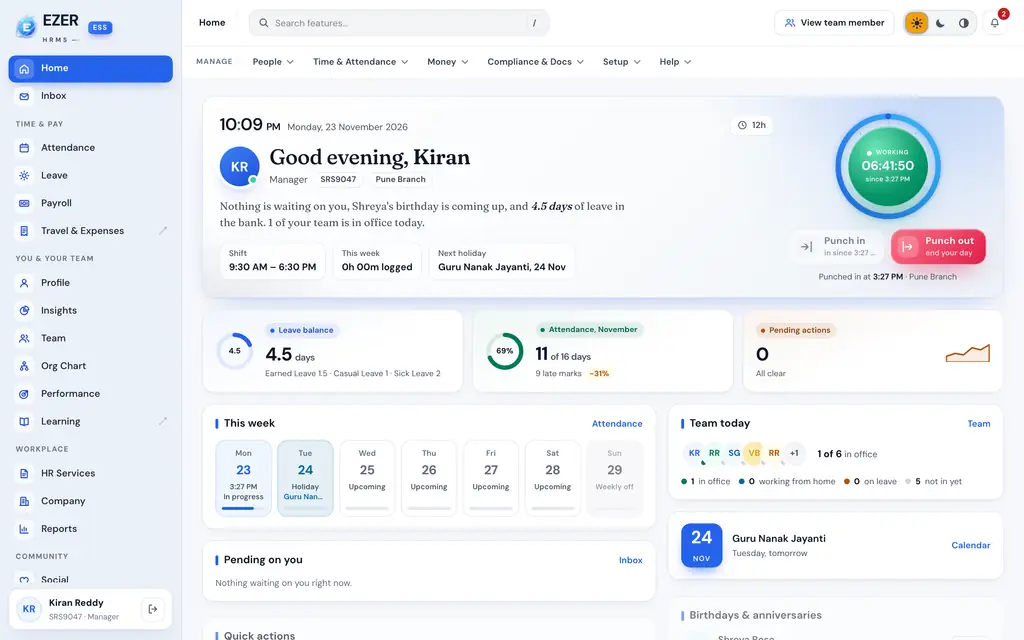
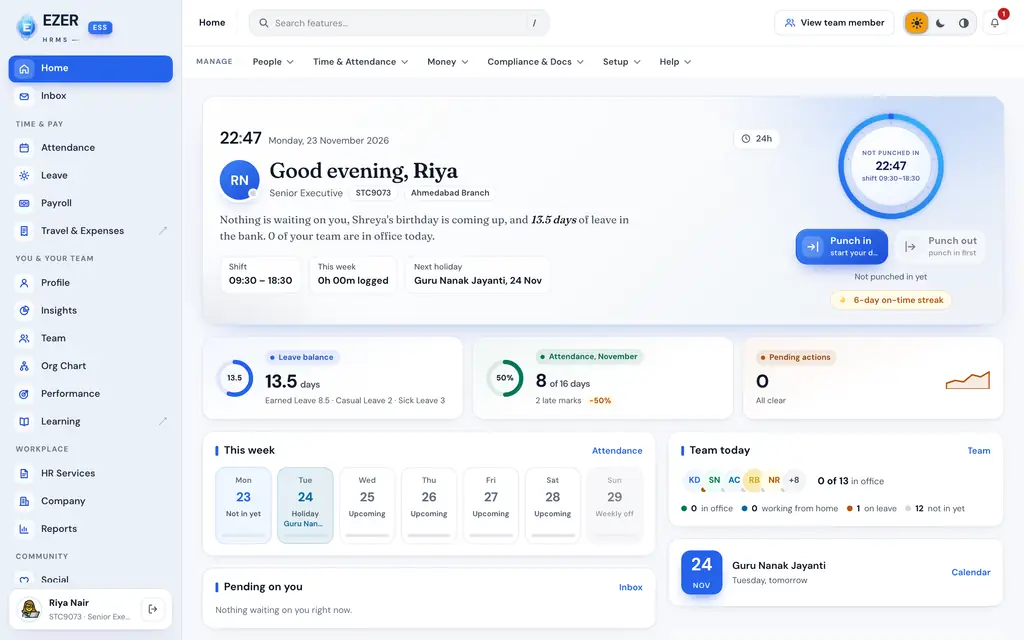
Show Hire & onboard from the recruiter's full ESS view
Re-recorded the flow as STC9073 (Riya Nair), whose recruitment screen has
all five stages: requisitions and the Raise MRF form, AI resume screening,
the candidate pipeline board, offers, pre-onboarding, then onboarding
compliance. Eleven steps; test records are renamed in the captures.

diff --git a/content/tour.ts b/content/tour.ts
@@ -628,13 +628,13 @@ export const demoFlows: DemoFlow[] = [
     "name": "Hire & onboard",
     "persona": "HR team",
     "icon": "briefcase",
-    "blurb": "Run from the HR team’s own login: requisitions, the pipeline, joiners and e-signed letters.",
+    "blurb": "From the HR team’s own login: requisition, AI screening, pipeline, offer and joining.",
     "host": "app.ezerhrms.com",
     "steps": [
       {
         "src": "/tour/hire-0.webp",
         "srcSm": "/tour/hire-0-sm.webp",
[2 lines of base64/hex data omitted]
         "title": "HR works from its own login",
         "body": "The HR team uses the same self-service as everyone else, with a Manage bar on top for the work their role allows.",
         "act": "click",
@@ -648,7 +648,7 @@ export const demoFlows: DemoFlow[] = [
       {
         "src": "/tour/hire-1.webp",
         "srcSm": "/tour/hire-1-sm.webp",
[2 lines of base64/hex data omitted]
         "title": "People work, one menu away",
         "body": "Recruitment, onboarding, letters, transfers and performance, shown only to the roles that hold them.",
         "act": "click",
@@ -662,12 +662,12 @@ export const demoFlows: DemoFlow[] = [
       {
         "src": "/tour/hire-2.webp",
         "srcSm": "/tour/hire-2-sm.webp",
[2 lines of base64/hex data omitted]
         "title": "Hiring at a glance",
-        "body": "Requisitions, open roles, the pipeline by stage and the most overdue item first, for the companies this person can see.",
+        "body": "Plan, source, offer, join and track. Open roles, the pipeline by stage and what is overdue, first thing.",
         "act": "click",
         "target": {
-          "x": 39.2,
+          "x": 29.15,
           "y": 22.67,
           "w": 1.76,
           "h": 1.53
@@ -676,74 +676,102 @@ export const demoFlows: DemoFlow[] = [
       {
         "src": "/tour/hire-3.webp",
         "srcSm": "/tour/hire-3-sm.webp",
[1 lines of base64/hex data omitted]
-        "title": "Requisitions with sign-off",
-        "body": "Quick hire or a full MRF with budget and approvers, flagged the day its target date passes.",
[1 lines of base64/hex data omitted]
+        "title": "Every requisition, accounted for",
+        "body": "Draft, approved, on hold or closed, with openings, filled roles and candidates on each.",
         "act": "click",
         "target": {
-          "x": 91.39,
-          "y": 22.67,
-          "w": 4.45,
-          "h": 1.53
+          "x": 93.35,
+          "y": 38.82,
+          "w": 8.57,
+          "h": 4.44
         }
       },
       {
         "src": "/tour/hire-4.webp",
         "srcSm": "/tour/hire-4-sm.webp",
[1 lines of base64/hex data omitted]
-        "title": "Is hiring keeping up?",
-        "body": "Fill rate, breached and at-risk requisitions and days to fill, exportable for the Monday review.",
[1 lines of base64/hex data omitted]
+        "title": "Quick hire or a full MRF",
+        "body": "Up to ₹6 lakh, a quick hire. Above it, a guided MRF: position, budget, justification, approvers and sourcing.",
         "act": "click",
         "target": {
-          "x": 26.8,
-          "y": 9.67,
-          "w": 5.74,
-          "h": 3.56
+          "x": 35.8,
+          "y": 22.67,
+          "w": 5.18,
+          "h": 1.53
         }
       },
       {
         "src": "/tour/hire-5.webp",
         "srcSm": "/tour/hire-5-sm.webp",
[1 lines of base64/hex data omitted]
-        "title": "From offer to joiner",
-        "body": "Once the offer is accepted, the candidate moves into onboarding from the same menu.",
[1 lines of base64/hex data omitted]
+        "title": "AI reads the resumes",
+        "body": "Upload a batch against an approved opening. Each resume is scored, and the strong ones go straight into the pipeline.",
         "act": "click",
         "target": {
-          "x": 28.43,
-          "y": 18.46,
-          "w": 4.84,
-          "h": 2.08
+          "x": 42.02,
+          "y": 22.67,
+          "w": 3.27,
+          "h": 1.53
         }
       },
       {
         "src": "/tour/hire-6.webp",
         "srcSm": "/tour/hire-6-sm.webp",
[2 lines of base64/hex data omitted]
+        "title": "The pipeline, as a board",
+        "body": "Applied, AI screened, telephonic, L1, L2 and shortlisted, each card with experience, expected CTC and notice.",
+        "act": "click",
+        "target": {
+          "x": 74.37,
+          "y": 22.67,
+          "w": 2.58,
+          "h": 1.53
+        }
+      },
+      {
+        "src": "/tour/hire-7.webp",
+        "srcSm": "/tour/hire-7-sm.webp",
[1 lines of base64/hex data omitted]
+        "title": "Offers, and the replies",
+        "body": "Accepted, revision asked or backed out, with the signed letter and the mail proof kept on every offer.",
+        "act": "click",
+        "target": {
+          "x": 81.3,
+          "y": 22.67,
+          "w": 6.59,
+          "h": 1.53
+        }
+      },
+      {
+        "src": "/tour/hire-8.webp",
+        "srcSm": "/tour/hire-8-sm.webp",
[1 lines of base64/hex data omitted]
+        "title": "From offer to joining date",
+        "body": "Confirm the joining date and the HR contact, and the joining reminders go out on their own.",
+        "act": "none",
+        "target": null
+      },
+      {
+        "src": "/tour/hire-9.webp",
+        "srcSm": "/tour/hire-9-sm.webp",
[1 lines of base64/hex data omitted]
         "title": "Every joiner, tracked",
         "body": "Onboarding links in one click, and joinings that are drifting are flagged by AI with the reason.",
         "act": "click",
         "target": {
-          "x": 67.33,
+          "x": 67.38,
           "y": 25.81,
           "w": 8.91,
           "h": 4
         }
       },
       {
-        "src": "/tour/hire-7.webp",
-        "srcSm": "/tour/hire-7-sm.webp",
[1 lines of base64/hex data omitted]
+        "src": "/tour/hire-10.webp",
+        "srcSm": "/tour/hire-10-sm.webp",
[1 lines of base64/hex data omitted]
         "title": "PF forms and paperwork",
         "body": "Form 11, Form 2, bank, policy, laptop, ID card and background check, per joiner.",
-        "act": "none",
-        "target": null
-      },
-      {
-        "src": "/tour/hire-8.webp",
-        "srcSm": "/tour/hire-8-sm.webp",
[1 lines of base64/hex data omitted]
-        "title": "Letters, signed online",
-        "body": "Offer letters, joining forms and policies signed with an e-mail OTP, sealed with an audit certificate.",
         "act": "none",
         "target": null
       }
